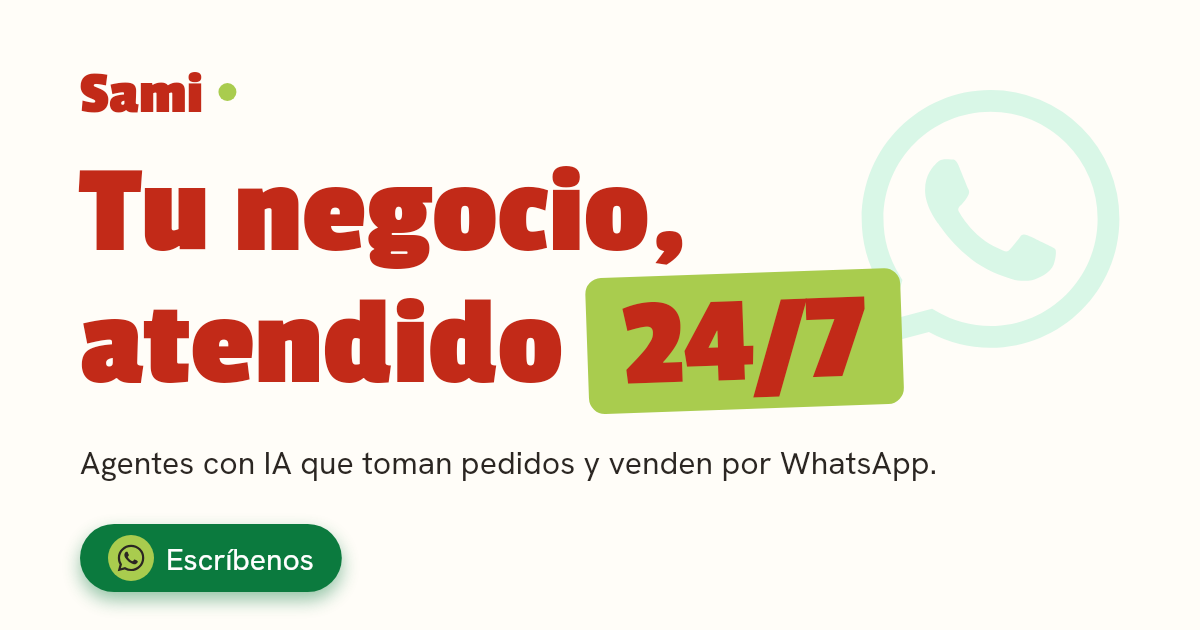
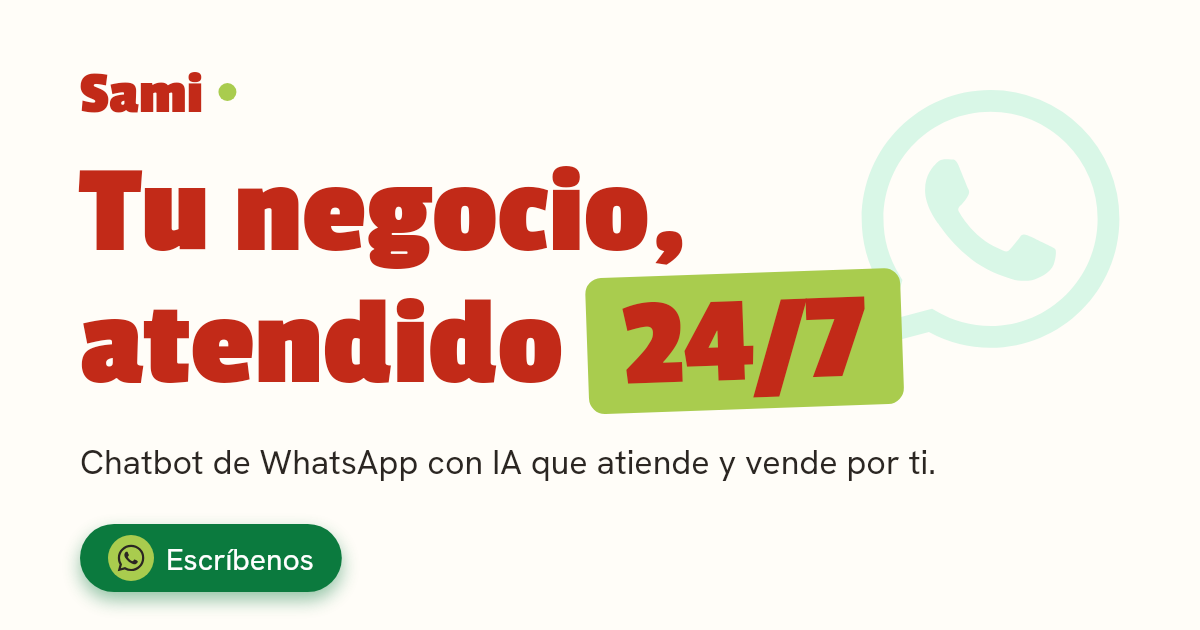
feat(seo): target chatbot keywords, add FAQ/Service schema, drop placeholder testimonial
Tags now follow the Keyword Planner export (489 kw, PEN, Nov 2025 - Oct 2026)
instead of brand voice alone. Top commercial clusters in it were
"chatbots whatsapp" / "bot whatsapp" / "bots para whatsapp" (100-1K/mo) and
"chatbot para whatsapp business" / "inteligencia artificial para whatsapp" /
"automatización de whatsapp" (10-100/mo); "chatbot peru" and
"atención al cliente por whatsapp" are the cheap local ones. The word
"chatbot" appeared zero times on the page.

- title 65 -> 54 chars, description 172 -> 145, both keyword-led; og/twitter
  now reuse the same single source in src/lib/site.ts
- canonical and og:url get the trailing slash that sitemap.xml already used
- JSON-LD: Organization (@id, 512x512 logo, telephone, Lima/PE, areaServed,
  contactPoint), WebSite (@id + publisher), new Service, new FAQPage built
  from the faqs array. No Offer/price and no reviews: the design rules forbid
  inventing figures.
- copy: hero and rubros h2 say "chatbot de WhatsApp"; two new FAQs cover
  chatbot-vs-agent and sales-vs-support. chatbot 0->4, atención al cliente
  0->2, automatización 0->1, asistente virtual 0->1, empresas 0->1
- static/sitemap.xml replaced by a prerendered /sitemap.xml endpoint with a
  build-time lastmod, so it cannot drift
- static/logo.png (512x512) from new scripts/render-logo.mjs; the 1200x630
  og banner was being used as schema.org logo
- og-image subline re-rendered to the keyword-led line; font request trimmed
  to the weights actually used
[…]

Changed region(s): [[0.0617, 0.6937, 0.7708, 0.754]]

diff --git a/src/routes/+page.svelte b/src/routes/+page.svelte
@@ -4,7 +4,17 @@
 	import WhatsAppButton from '$lib/components/WhatsAppButton.svelte';
 	import WhatsAppIcon from '$lib/components/WhatsAppIcon.svelte';
 	import { reveal } from '$lib/actions/reveal';
-	import { BRAND, SITE_URL, waUrl } from '$lib/site';
+	import {
+		BRAND,
+		CANONICAL_URL,
+		LOGO_URL,
+		OG_IMAGE_URL,
+		SITE_DESCRIPTION,
+		SITE_TITLE,
+		SITE_URL,
+		WHATSAPP_E164,
+		waUrl
+	} from '$lib/site';
 
 	type Chip = { text: string; tone: 'lima' | 'mar' | 'aji' };
 	type MenuItem = { name: string; chip: Chip };
@@ -121,6 +131,14 @@
 		{
 			q: '¿Y si yo quiero atender yo mismo?',
 			a: 'Le avisas y te pasa la conversación al toque. La máquina atiende, tú decides.'
+		},
+		{
+			q: '¿Es un chatbot o un agente de IA?',
+			a: 'Las dos cosas: es un chatbot de WhatsApp entrenado con la información de tu negocio y actúa como asistente virtual. Responde al instante y, cuando la conversación lo pide, la pasa a tu equipo.'
+		},
+		{
+			q: '¿Sirve para vender y para atención al cliente?',
+			a: 'Para las dos. Contesta precios, horarios y dudas, toma el pedido y cierra la venta por WhatsApp. Cuando alguien está listo para comprar, te lo pasa con todo el contexto.'
 		}
 	];
 
@@ -146,60 +164,101 @@
 		}
 	];
 
-	// Descripción canónica del sitio: la misma copia del <meta name="description"> de abajo.
-	const SITE_DESCRIPTION =
-		'Sami crea agentes de inteligencia artificial que toman pedidos, responden preguntas y venden por WhatsApp las 24 horas. En español peruano, de precio PYME y listos en días.';
+	const ORGANIZATION_ID = `${SITE_URL}/#organization`;
+	const WEBSITE_ID = `${SITE_URL}/#website`;
 
-	const OG_IMAGE_URL = `${SITE_URL}/og-image.png`;
-
-	// Datos estructurados (schema.org): solo hechos verificables — nombre, url, descripción.
+	// Datos estructurados (schema.org): solo hechos verificables del sitio — nombre, url,
+	// teléfono de contacto, ciudad/país y el servicio que se vende. Sin precios ni reseñas.
 	const jsonLd = {
 		'@context': 'https://schema.org',
 		'@graph': [
 			{
 				'@type': 'Organization',
+				'@id': ORGANIZATION_ID,
 				name: BRAND,
-				url: SITE_URL,
-				logo: OG_IMAGE_URL,
-				description: SITE_DESCRIPTION
+				url: CANONICAL_URL,
+				logo: {
+					'@type': 'ImageObject',
+					url: LOGO_URL,
+					width: 512,
+					height: 512,
+					caption: BRAND
+				},
+				image: OG_IMAGE_URL,
+				description: SITE_DESCRIPTION,
+				telephone: WHATSAPP_E164,
+				address: {
+					'@type': 'PostalAddress',
+					addressLocality: 'Lima',
+					addressCountry: 'PE'
+				},
+				areaServed: { '@type': 'Country', name: 'Perú' },
+				contactPoint: {
+					'@type': 'ContactPoint',
+					telephone: WHATSAPP_E164,
+					contactType: 'sales',
+					areaServed: 'PE',
+					availableLanguage: ['es-PE']
+				}
 			},
 			{
 				'@type': 'WebSite',
+				'@id': WEBSITE_ID,
 				name: BRAND,
-				url: SITE_URL,
+				url: CANONICAL_URL,
 				inLanguage: 'es-PE',
-				description: SITE_DESCRIPTION
+				description: SITE_DESCRIPTION,
+				publisher: { '@id': ORGANIZATION_ID }
+			},
+			{
+				'@type': 'Service',
+				'@id': `${SITE_URL}/#servicio`,
+				name: 'Chatbots y agentes de IA para WhatsApp',
+				serviceType: 'Chatbot de WhatsApp con inteligencia artificial',
+				description:
+					'Automatización de la atención al cliente y de las ventas por WhatsApp: responde precios y horarios, toma pedidos y reservas, y escala la conversación a tu equipo cuando hace falta.',
+				provider: { '@id': ORGANIZATION_ID },
+				areaServed: [
+					{ '@type': 'Country', name: 'Perú' },
+					{ '@type': 'City', name: 'Lima' }
+				],
+				audience: { '@type': 'BusinessAudience', audienceType: 'PYMEs y negocios peruanos' }
+			},
+			{
+				'@type': 'FAQPage',
+				'@id': `${SITE_URL}/#faq`,
+				mainEntity: faqs.map((faq) => ({
+					'@type': 'Question',
+					name: faq.q,
+					acceptedAnswer: { '@type': 'Answer', text: faq.a }
+				}))
 			}
 		]
 	};
 </script>
 
 <svelte:head>
-	<title>Sami — Agentes con IA que atienden 24/7 por WhatsApp · Lima, Perú</title>
-	<meta
-		name="description"
-		content="Sami crea agentes de inteligencia artificial que toman pedidos, responden preguntas y venden por WhatsApp las 24 horas. En español peruano, de precio PYME y listos en días."
-	/>
-	<meta property="og:title" content="Sami — Tu negocio, atendido 24/7" />
-	<meta
-		property="og:description"
-		content="Agentes con IA que toman pedidos, responden y venden por WhatsApp. En español peruano, de precio PYME, listos en días."
-	/>
+	<title>{SITE_TITLE}</title>
+	<meta name="description" content={SITE_DESCRIPTION} />
+	<meta name="theme-color" content="#fffdf8" />
+	<link rel="canonical" href={CANONICAL_URL} />
 	<meta property="og:type" content="website" />
-	<link rel="canonical" href={SITE_URL} />
-	<meta property="og:url" content={SITE_URL} />
+	<meta property="og:url" content={CANONICAL_URL} />
 	<meta property="og:site_name" content={BRAND} />
 	<meta property="og:locale" content="es_PE" />
+	<meta property="og:title" content={SITE_TITLE} />
+	<meta property="og:description" content={SITE_DESCRIPTION} />
 	<meta property="og:image" content={OG_IMAGE_URL} />
+	<meta property="og:image:type" content="image/png" />
 	<meta property="og:image:width" content="1200" />
 	<meta property="og:image:height" content="630" />
-	<meta property="og:image:alt" content="Sami — Tu negocio, atendido 24/7" />
-	<meta name="twitter:card" content="summary_large_image" />
-	<meta name="twitter:title" content="Sami — Tu negocio, atendido 24/7" />
 	<meta
-		name="twitter:description"
-		content="Agentes con IA que toman pedidos, responden y venden por WhatsApp. En español peruano, de precio PYME, listos en días."
+		property="og:image:alt"
+		content="Aviso de Sami: Tu negocio, atendido 24/7 por un chatbot de WhatsApp con IA"
 	/>
+	<meta name="twitter:card" content="summary_large_image" />
+	<meta name="twitter:title" content={SITE_TITLE} />
+	<meta name="twitter:description" content={SITE_DESCRIPTION} />
 	<meta name="twitter:image" content={OG_IMAGE_URL} />
 	<!-- Datos estructurados para buscadores; svelte:element evita el tratamiento de <script> embebido. -->
 	<svelte:element this={"script"} type="application/ld+json">
@@ -239,8 +298,8 @@
 				<mark class="inline-block -rotate-1 rounded-md bg-lima px-3 text-aji">24/7</mark>
 			</h1>
 			<p class="mt-6 max-w-[62ch] text-lg text-carbon md:text-xl">
-				{BRAND} es un agente con inteligencia artificial que toma los pedidos, responde preguntas y vende
-				por WhatsApp mientras tú estás en otra cosa. En español peruano, como debe ser.
+				{BRAND} es un chatbot de WhatsApp con inteligencia artificial: toma los pedidos, responde precios
+				y vende por ti mientras tú estás en otra cosa. Atención al cliente 24/7, en español peruano.
 			</p>
 
 			<ul class="mt-10 space-y-4" use:reveal>
@@ -431,7 +490,7 @@
 						id="rubros-title"
 						class="font-display text-[clamp(2.6rem,6vw,4rem)] leading-tight font-bold text-aji"
 					>
-						Para negocios como el tuyo
+						Chatbot de WhatsApp para negocios como el tuyo
 					</h2>
 					<p class="mt-2 max-w-[60ch] text-lg text-carbon/85">
 						Si tu cliente te escribe por WhatsApp, {BRAND} le responde.
@@ -447,14 +506,19 @@
 						</li>
 					{/each}
 				</ul>
+
+				<p class="mt-6 max-w-[60ch] text-carbon/85" use:reveal={{ delay: 150 }}>
+					Se conecta al WhatsApp que ya usas, sin cambiar de número ni pedirle a tus clientes que
+					instalen nada.
+				</p>
 			</div>
 
 			<div class="mx-auto mt-16 max-w-2xl">
 				<div use:reveal>
 					<h3 class="font-display text-3xl font-bold text-mar">Precio claro, de una</h3>
 					<p class="mt-2 max-w-[60ch] text-carbon/85">
-						Hablando en platos: precios sin salsas. De precio PYME y con cotización por WhatsApp en
-						minutos.
+						Hablando en platos: precios sin salsas. De precio PYME, sin proyectos de automatización
+						de seis meses, y con cotización por WhatsApp en minutos.
 					</p>
 					<div class="mt-6 flex flex-wrap gap-x-5 gap-y-3">
 						{#each precios as precio, i (precio.text)}
@@ -473,24 +537,6 @@
 						/>
 					</div>
 				</div>
-
-				<!-- Testimonio de ejemplo, visiblemente sintético -->
-				<figure
-					class="mt-12 rounded-xl border-2 border-dashed border-carbon/30 bg-plate/60 p-6"
-					use:reveal
-				>
-					<figcaption class="mb-3">
-						<span class="chip bg-carbon/10 text-carbon"
-							>Ejemplo — aquí irán los testimonios reales</span
-						>
-					</figcaption>
-					<blockquote class="text-lg text-carbon/85 italic">
-						“Desde que {BRAND} atiende la noche, ya no pierdo ni un pedido.”
-					</blockquote>
-					<p class="mt-2 text-sm font-bold text-carbon/60">
-						Nombre de ejemplo · Negocio de ejemplo, Lima
-					</p>
-				</figure>
 			</div>
 		</div>
 	</section>
@@ -563,7 +609,8 @@
 					<span class="size-2 rounded-full bg-lima" aria-hidden="true"></span>
 				</p>
 				<p class="mt-1 max-w-[46ch] text-sm text-plate/70">
-					Agentes con IA que atienden 24/7 por WhatsApp. Para negocios peruanos, en español peruano.
+					Agentes con IA que atienden 24/7 por WhatsApp. Para negocios y empresas peruanas, en
+					español peruano.
 				</p>
 			</div>
 			<nav class="flex flex-wrap gap-x-6 gap-y-2 text-sm font-bold" aria-label="Pie de página">

diff --git a/src/lib/site.ts b/src/lib/site.ts
@@ -7,10 +7,29 @@ export const BRAND = 'Sami';
 // Origen canónico del sitio (se sirve en la raíz del dominio, ver CNAME).
 export const SITE_URL = 'https://chatbot.libre.net.pe';
 
+// URL canónica con barra final: la misma forma que usa sitemap.xml.
+export const CANONICAL_URL = `${SITE_URL}/`;
+
 // Número confirmado por el propietario (2026-09): +34 623 43 95 76.
 export const WHATSAPP_NUMBER = '34623439576';
 
+export const WHATSAPP_E164 = `+${WHATSAPP_NUMBER}`;
+
 export const WHATSAPP_DEFAULT_TEXT = '¡Buenas! Quiero un agente que atienda mi negocio 24/7.';
+
+/**
+ * Título y descripción canónicos. Una sola fuente para <title>,
+ * meta description, Open Graph, Twitter y JSON-LD.
+ * Largo: 55 y 148 caracteres (los buscadores cortan ~60/~155).
+ */
+export const SITE_TITLE = 'Sami — Chatbot de WhatsApp con IA para negocios · Perú';
+
+export const SITE_DESCRIPTION =
+	'Sami es el chatbot de WhatsApp con IA que atiende tu negocio 24/7: pedidos, precios y ventas. En español peruano, de precio PYME y listo en días.';
+
+export const OG_IMAGE_URL = `${SITE_URL}/og-image.png`;
+
+export const LOGO_URL = `${SITE_URL}/logo.png`;
 
 export function waUrl(text: string = WHATSAPP_DEFAULT_TEXT): string {
 	return `https://wa.me/${WHATSAPP_NUMBER}?text=${encodeURIComponent(text)}`;

diff --git a/src/routes/sitemap.xml/+server.ts b/src/routes/sitemap.xml/+server.ts
@@ -1,0 +1,23 @@
+import { CANONICAL_URL } from '$lib/site';
+import type { RequestHandler } from './$types';
+
+// Sitemap generado en build (no a mano): así no se queda atrás cuando se
+// agregue una ruta. `lastmod` es la fecha real en que se regeneró la página.
+export const prerender = true;
+
+const LASTMOD = new Date().toISOString().slice(0, 10);
+
+export const GET: RequestHandler = () => {
+	const body = `<?xml version="1.0" encoding="UTF-8"?>
+<urlset xmlns="http://www.sitemaps.org/schemas/sitemap/0.9">
+	<url>
+		<loc>${CANONICAL_URL}</loc>
+		<lastmod>${LASTMOD}</lastmod>
+	</url>
+</urlset>
+`;
+
+	return new Response(body, {
+		headers: { 'content-type': 'application/xml; charset=utf-8' }
+	});
+};

diff --git a/src/routes/+layout.svelte b/src/routes/+layout.svelte
@@ -11,7 +11,7 @@
 	<link rel="preconnect" href="https://fonts.googleapis.com" />
 	<link rel="preconnect" href="https://fonts.gstatic.com" crossorigin="anonymous" />
 	<link
-		href="https://fonts.googleapis.com/css2?family=Passion+One:wght@400;700;900&family=Hanken+Grotesk:wght@400;500;600;700;800&family=Caveat:wght@600;700&display=swap"
+		href="https://fonts.googleapis.com/css2?family=Passion+One:wght@700&family=Hanken+Grotesk:wght@400;600;700;800&family=Caveat:wght@600&display=swap"
 		rel="stylesheet"
 	/>
 </svelte:head>

diff --git a/DESIGN.md b/DESIGN.md
@@ -211,7 +211,7 @@ Esquinas vivas pero moderadas: chips 8px, tarjetas y chat 16px, burbujas 14px co
 - **Do** usar Passion One 700 en titulares con clamp y nunca pasar de 6rem.
 - **Do** Alternar chips lima→mar→ají en cada lista de carta para el ritmo de bloque de color.
 - **Do** Escribir todo el copy en español peruano de Lima; los CTA siempre con verbo de pedido ("Pide", "Escríbenos").
-- **Do** Etiquetar toda conversación o testimonio sintético con chip visible ("Conversación de demostración", "Ejemplo — aquí irán los testimonios reales").
+- **Do** Etiquetar toda conversación sintética con chip visible ("Conversación de demostración").
 
 ### Don't:
 
